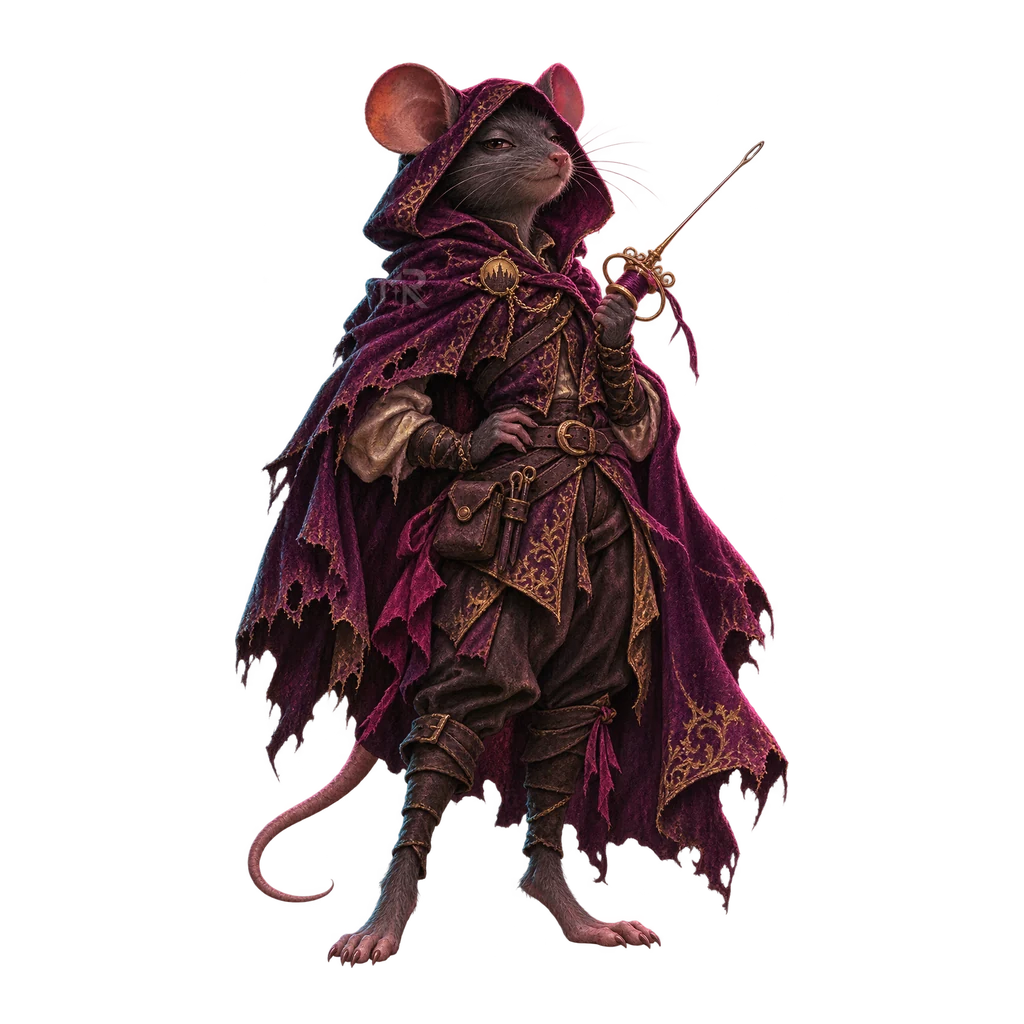
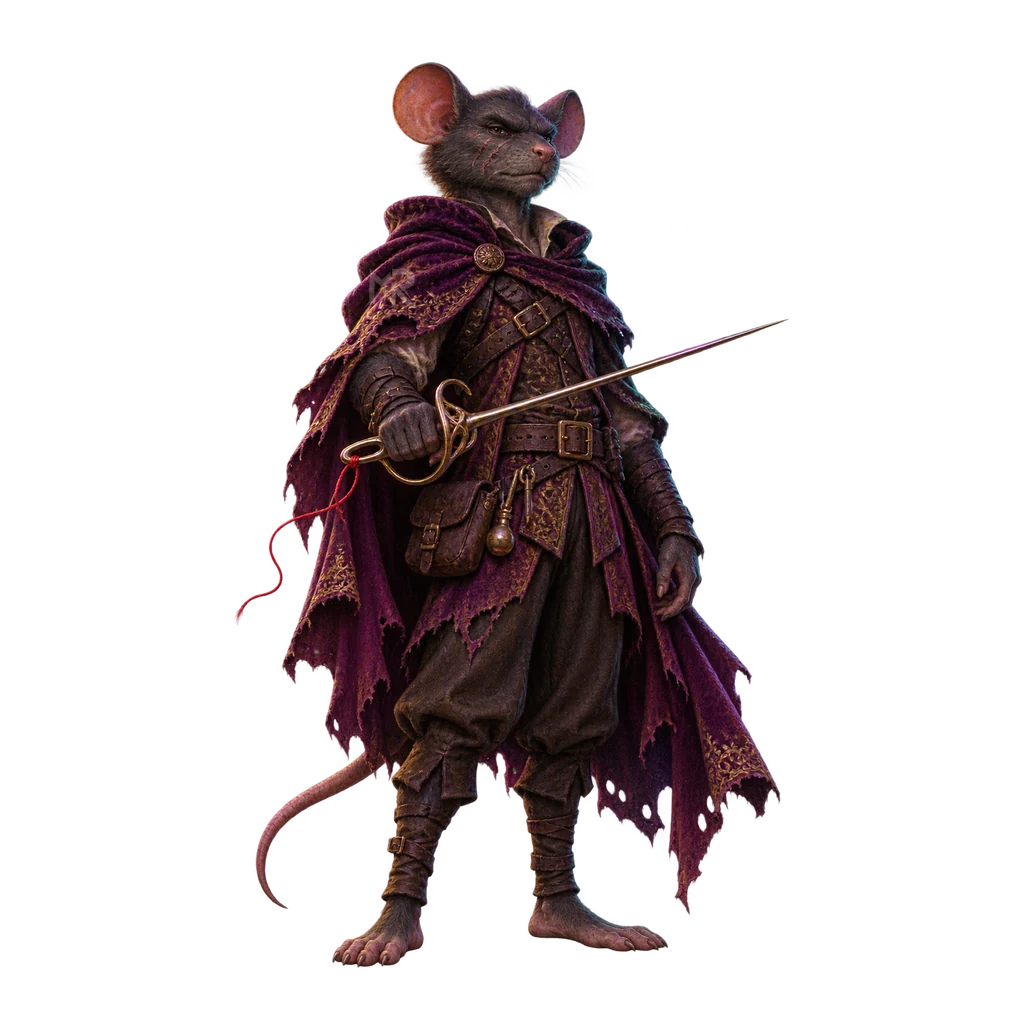
1.0.2: Zardoz Midespinas macho y aguja con la punta en la hoja

diff --git a/CHANGELOG.md b/CHANGELOG.md
@@ -1,5 +1,9 @@
 # Cambios
 
+## 1.0.2
+
+- **Zardoz Midespinas rehecho.** Retrato, token y figura nuevos: es un ratón macho, con cicatriz, y la aguja-estoque lleva la punta en la punta de la hoja y el ojal con el hilo rojo en la empuñadura.
+
 ## 1.0.1
 
 - **Ficha rediseñada.** Las etiquetas (Nombre, Transfondo, Signo…) pierden el bloque negro de detrás y usan letra legible que cabe en su hueco; pestañas y títulos de objeto en Cinzel, campos en Crimson.
